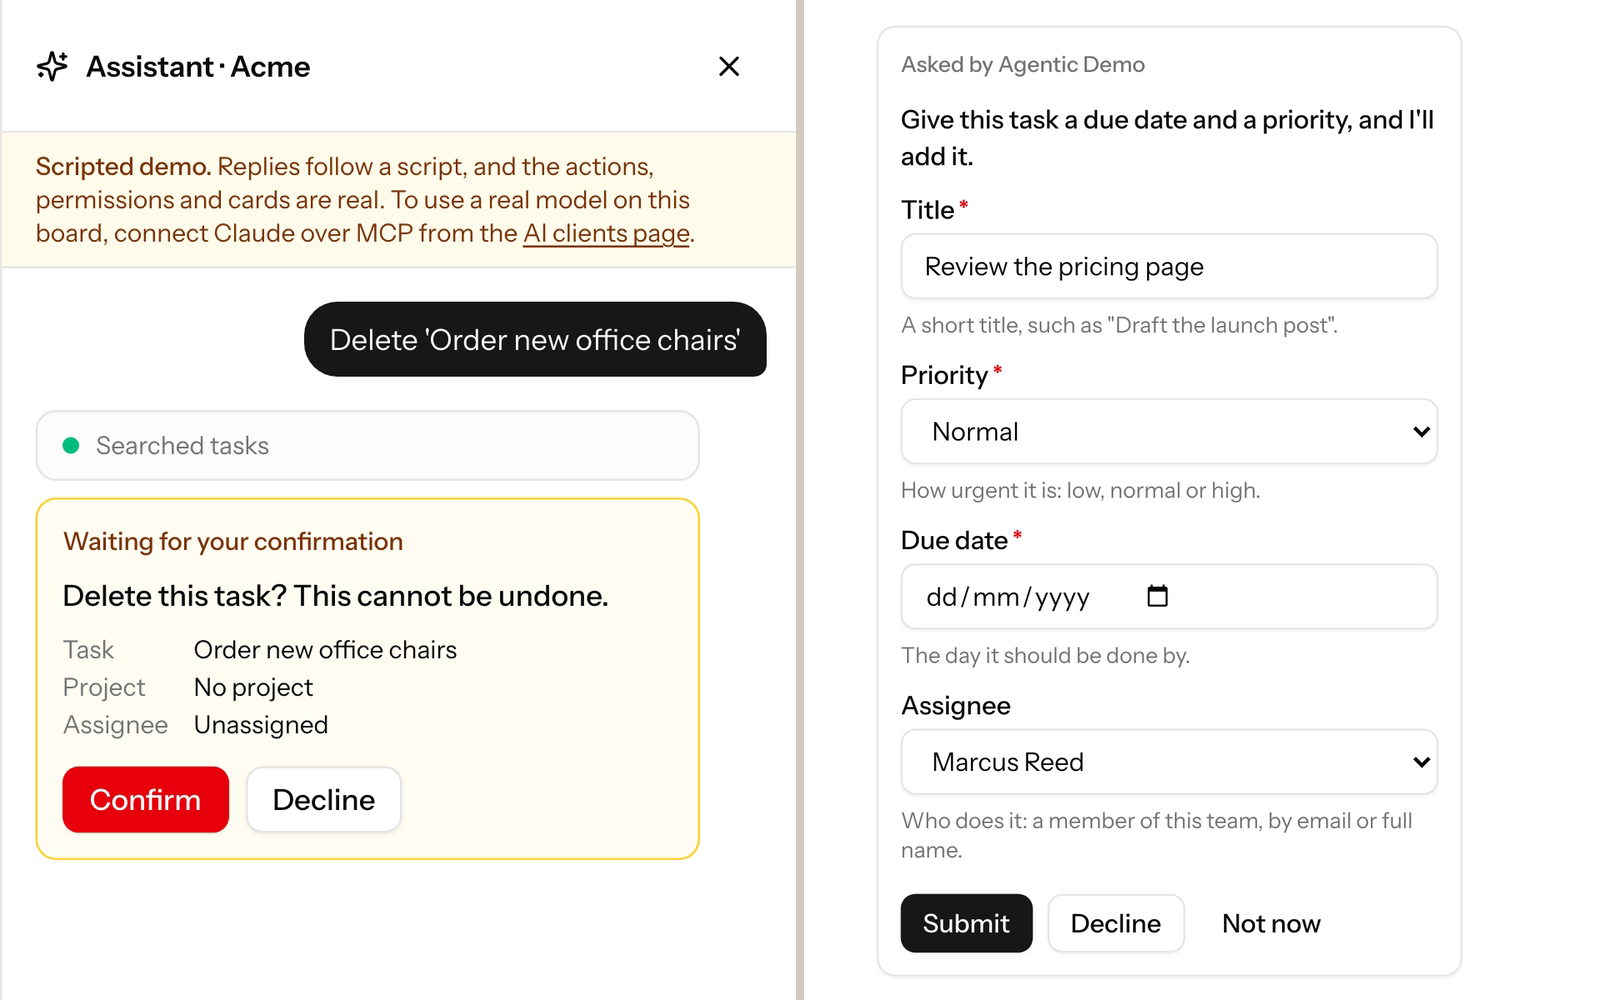
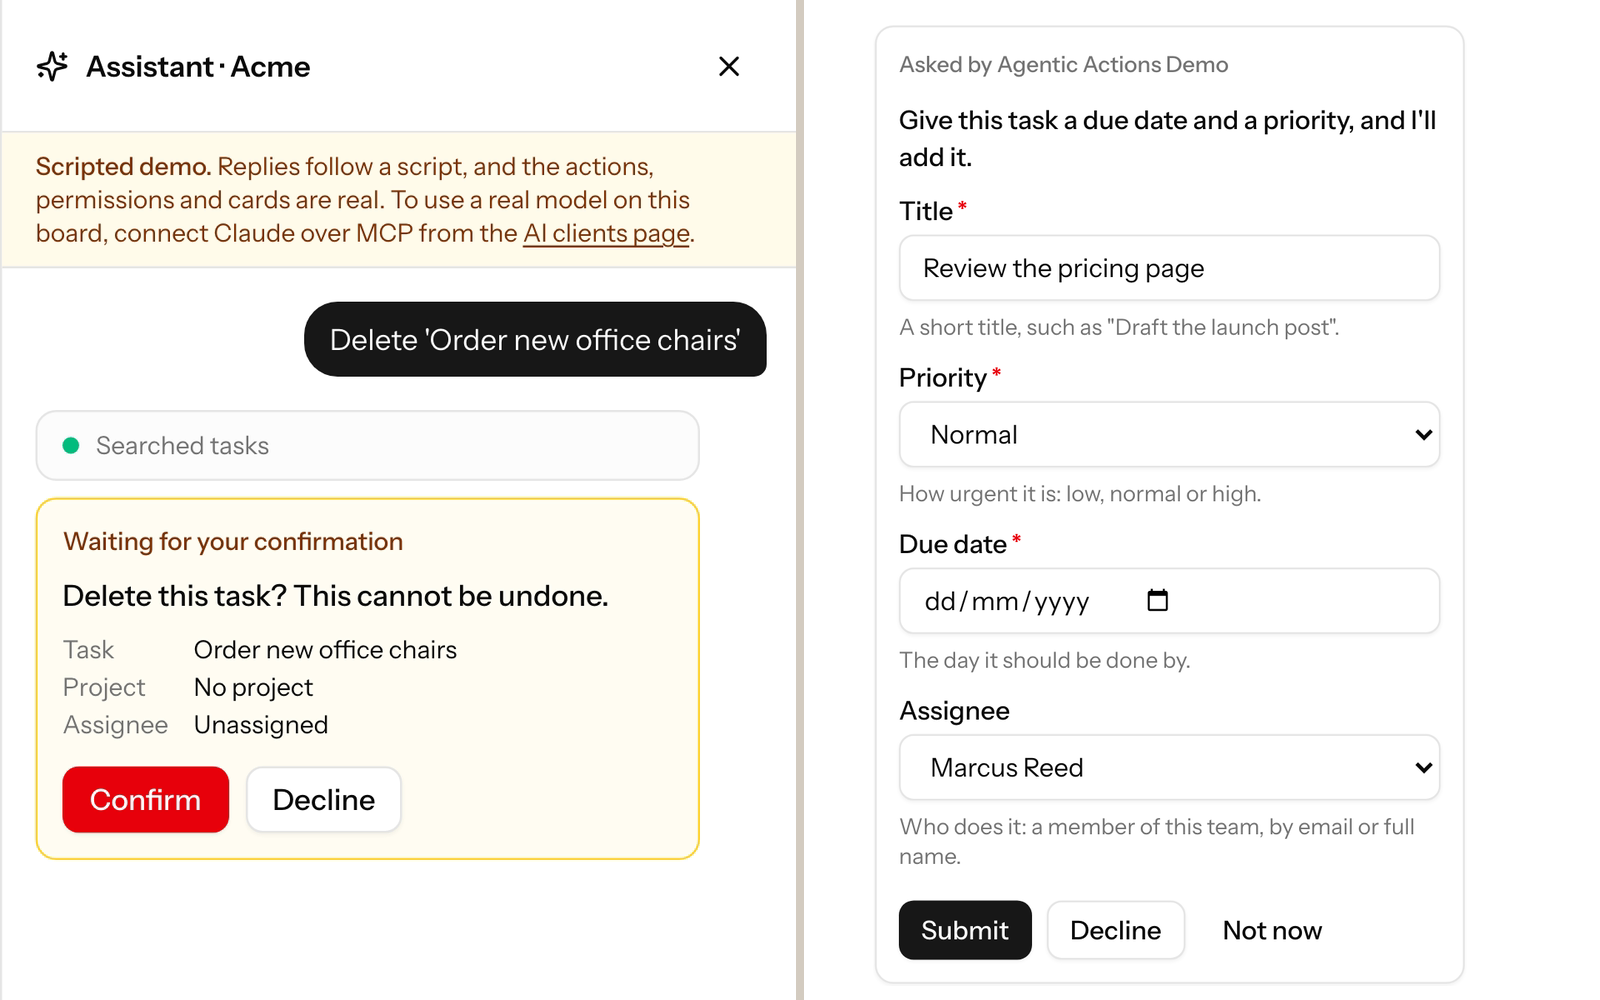
docs: retake the README's demo board and the form screenshot
- docs/public/images/demo-board.png: retaken on demo.agentic-actions.com
  with the board filtered to normal priority, so the column headers and
  all three new cards are in view, no card is cut at an edge, and Doing
  and Done hold tasks. The earlier shot opened on half a card and left
  two columns blank.
- docs/public/images/confirm-and-form.png: the form half is retaken on
  the hosted demo, so its first line reads "Asked by Agentic Actions
  Demo", the name a reader sees there. The confirmation half is
  unchanged.
- README: the board's alt text describes the new shot.

diff --git a/README.md b/README.md
@@ -1,6 +1,6 @@
 # Agentic Actions for Laravel
 
-[![The Agentic Actions demo's Acme task board with the copilot panel open on the right. The panel shows the request "Add three launch tasks for Marcus", one row per action call (the first reads "Not done", the other three "Created a task"), and the reply naming the three tasks. The To do column shows the three new cards, assigned to Marcus Reed. The panel's notice says the demo is scripted and the actions are real.](https://agentic-actions.com/images/demo-board.png)](https://demo.agentic-actions.com)
+[![The Agentic Actions demo's Acme task board, filtered to normal priority, with the copilot panel open on the right. The panel shows the request "Add three launch tasks for Marcus", one row per action call (the first reads "Not done", the other three "Created a task"), and the reply naming the three tasks. The To do column starts with the new cards "Draft the launch checklist" and "Brief the support team on the launch", then "Replace the hero illustration" and the third new card, "Schedule the launch social posts", all assigned to Marcus Reed. Doing and Done show their normal-priority tasks. The panel's notice says the demo is scripted and the actions are real.](https://agentic-actions.com/images/demo-board.png)](https://demo.agentic-actions.com)
 
 The demo's copilot follows a script. The actions it runs are real.
 
